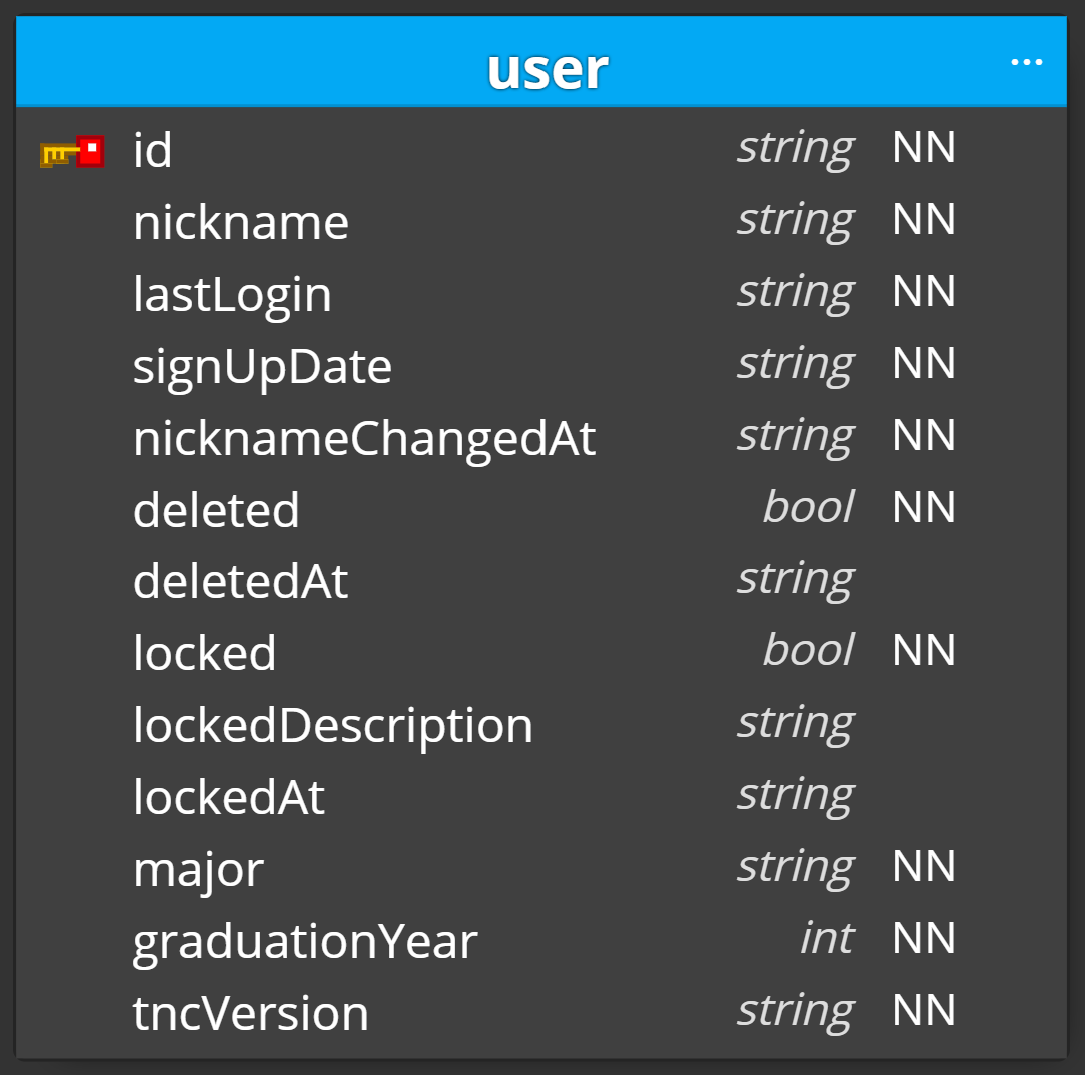
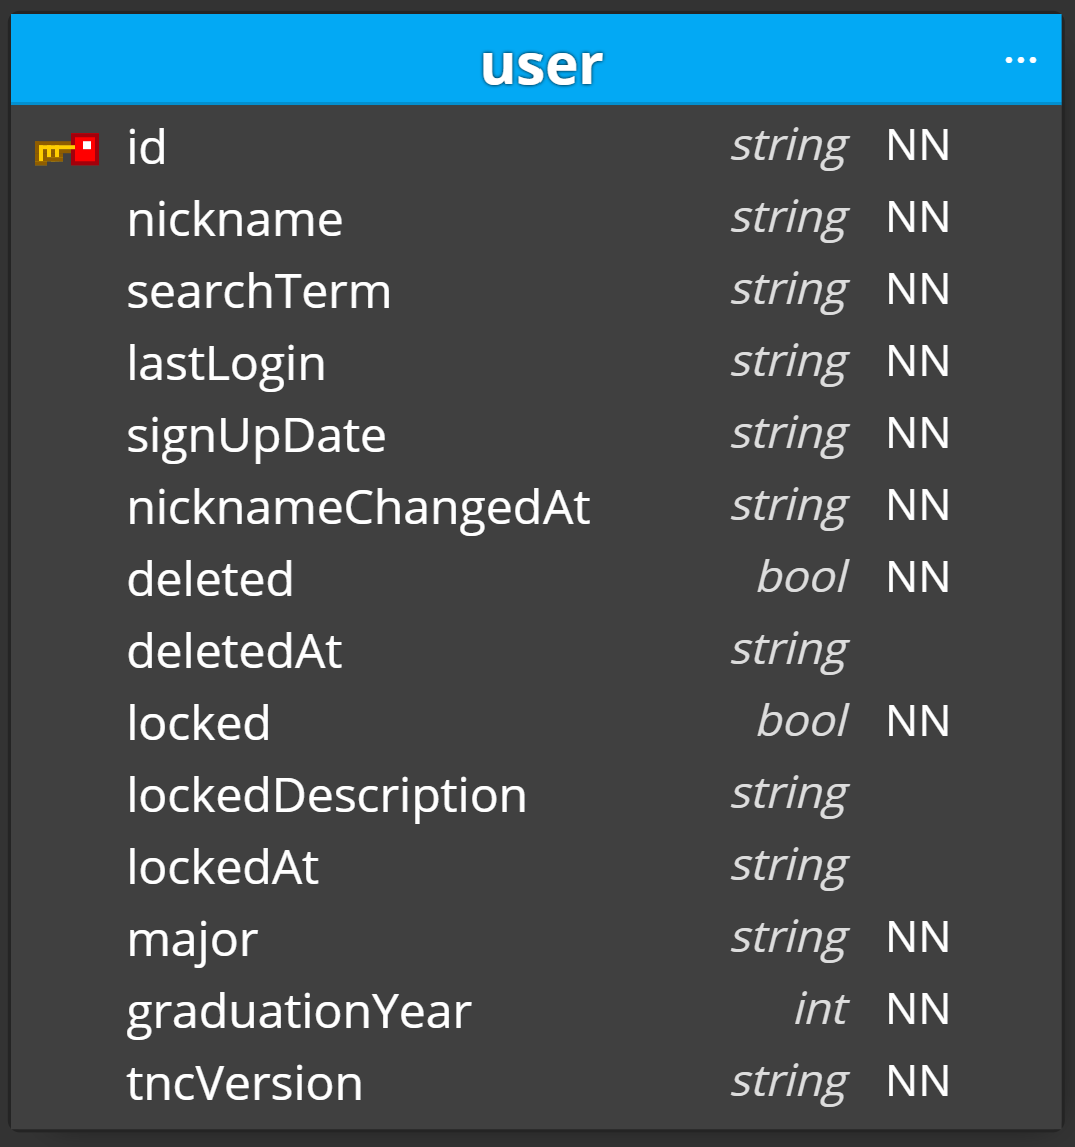
Add UniqueKey Property / Update Dependencies

diff --git a/test/TestEnv.ts b/test/TestEnv.ts
@@ -79,7 +79,7 @@ export default class TestEnv {
         ],
       },
       uniqueKeyPolicy: {
-        uniqueKeys: [{paths: ['/nickname']}],
+        uniqueKeys: [{paths: ['/nickname']}, {paths: ['/searchTerm']}],
       },
     });
     /* istanbul ignore next */